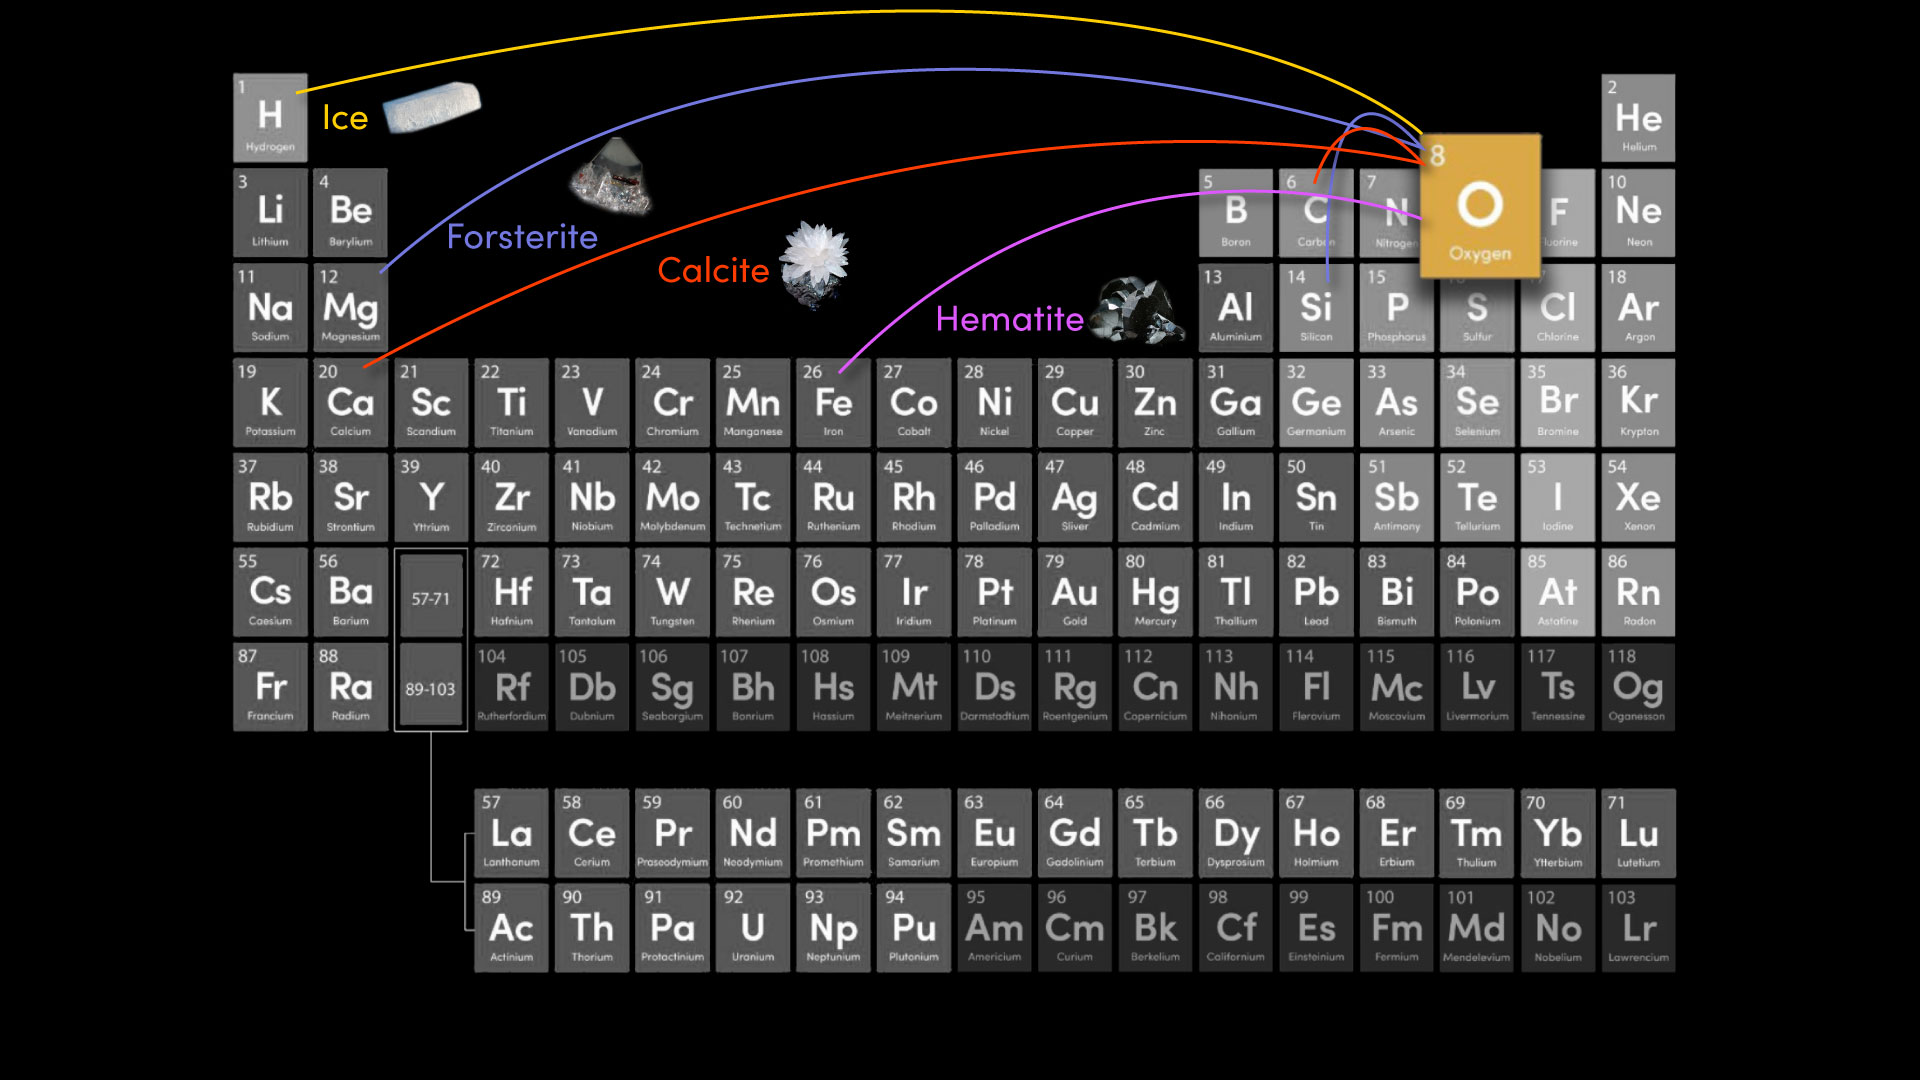
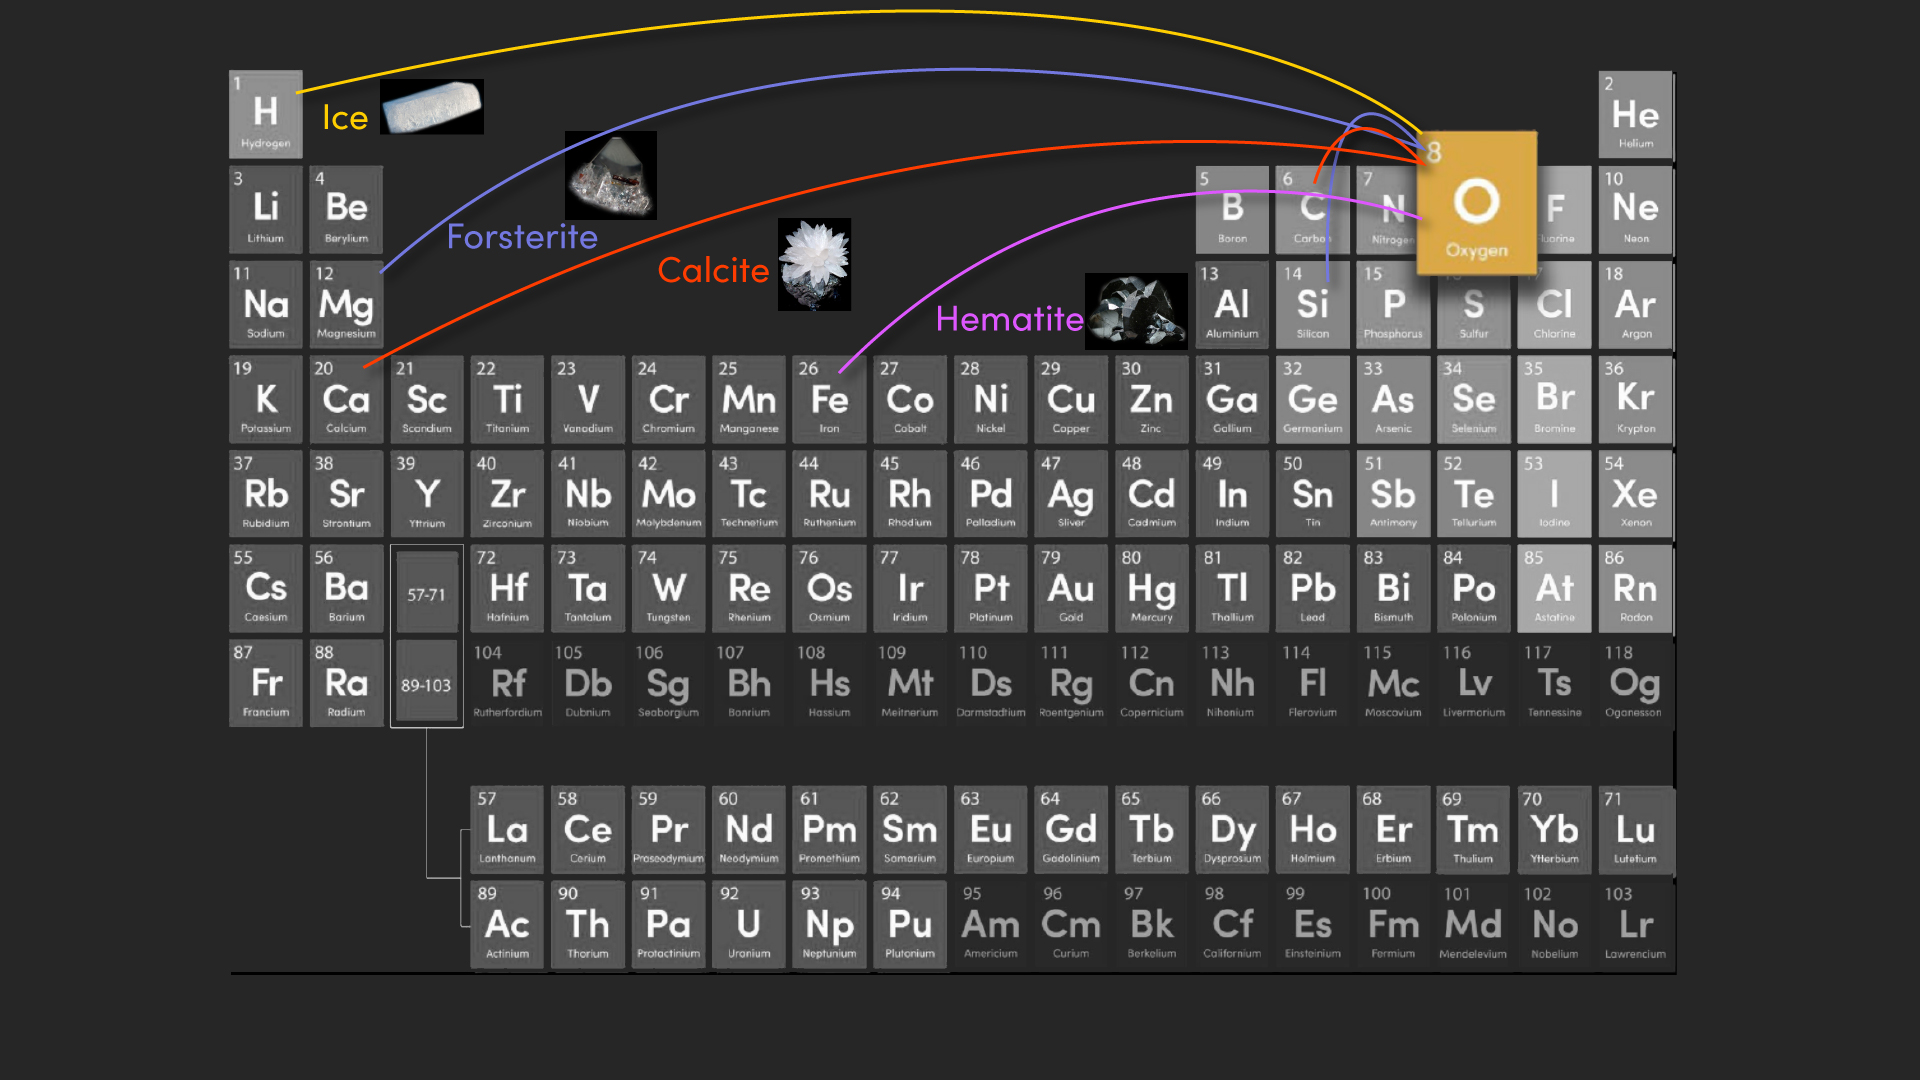
update background colors

diff --git a/wall/css/app.css b/wall/css/app.css
@@ -1,6 +1,6 @@
 body {
   color: white;
-  background: #222;
+  background: #262626;
   overflow: hidden;
 }
 
@@ -16,7 +16,7 @@ h1 {
   width: 118.518518519vh;
   left: 50%;
   margin-left: -59.2592592595vh;
-  background: black;
+  background: #262626;
   border-right: 1px solid #555;
   border-bottom: 1px solid #555;
   text-align: center;
@@ -50,8 +50,8 @@ h1 {
   height: 15%;
   bottom: 0;
   left: 0;
-  background: rgb(0,0,0);
-  background: linear-gradient(180deg, rgba(0,0,0,0) 0%, rgba(0,0,0,1) 75%, rgba(0,0,0,1) 100%);
+  background: rgb(38,38,38);
+  background: linear-gradient(180deg, rgba(38,38,38,0) 0%, rgba(38,38,38,1) 75%, rgba(38,38,38,1) 100%);
 }
 .screen {
   position: absolute;
@@ -164,7 +164,7 @@ h1 {
 }
 .wall[data-layout="v2"] .pt .gradient,
 .wall[data-layout="v3"] .pt .gradient {
-  height: 25%;
+  height: 20%;
 }
 .wall[data-layout="v2"] .supplementary {
   bottom: auto;
@@ -172,7 +172,7 @@ h1 {
 }
 .wall[data-layout="v2"] .formulas {
   background: rgba(1,167,181,0.196516106442577);
-  background: linear-gradient(180deg, rgba(1,167,181,0.196516106442577) 0%, rgba(0,0,0,0) 100%);
+  background: linear-gradient(180deg, rgba(1,167,181,0.196516106442577) 0%, rgba(38,38,38,0) 100%);
   position: relative;
   padding-top: 0;
 }

diff --git a/timeline/css/app.css b/timeline/css/app.css
@@ -1,5 +1,5 @@
 body {
-  background: black;
+  background: #262626;
   color: white;
 }
 
